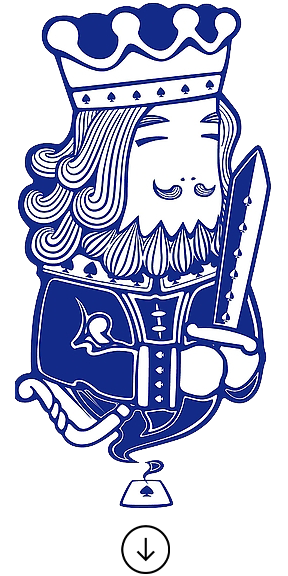
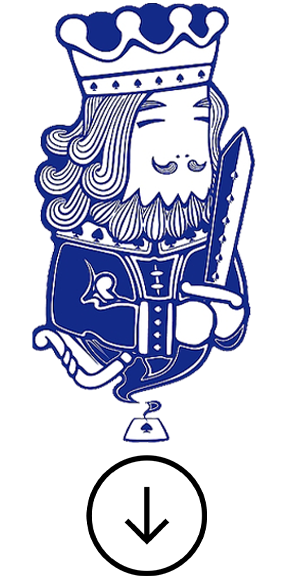
website

diff --git a/Landing/index.html b/Landing/index.html
@@ -28,12 +28,15 @@
             <div class="row">
               <div class="col-md-6 ml-auto tm-text-white">
                 <header><h1>Individual</h1></header>
-                <p>Mauris nec urna facilisis, sagittis libero at, hendrerit est. Maecenas et ligula sed justo scelerisque placerat sit amet eget tellus. Mauris dolor purus, pharetra sed velit id, tempus maximus nunc. Aenean eleifend id odio id semper. Nam at pellentesque ipsum.</p>
+                <p>Mauris nec urna facilisis, sagittis libero at, ellus. leifend id odio id semper. Nam at pellentesque ipsum.</p>
                   <a href="../E/index.html" class="btn btn-danger">Magician</a>
                   <a href="#tm-section-2" class="btn btn-danger">Programmer</a>
-                <img src="../Landing/img/spades.png" alt="spades" width="200px" height="400px" >
+                <div class="spades">
+                  <img src="../Landing/img/spades.png" alt="spades" width="150px" height="300px" >
+                </div>
               </div>
             </div>
+
 
           </section>
         </div>

diff --git a/Landing/css/tooplate-style.css b/Landing/css/tooplate-style.css
@@ -111,6 +111,13 @@ h5 {
 	margin-left: auto;
 }
 
+.spades {
+	position: relative;
+	top:50px;
+	left:35%;
+}
+
+
 .tm-btn-block {
 	display: block;
 }
